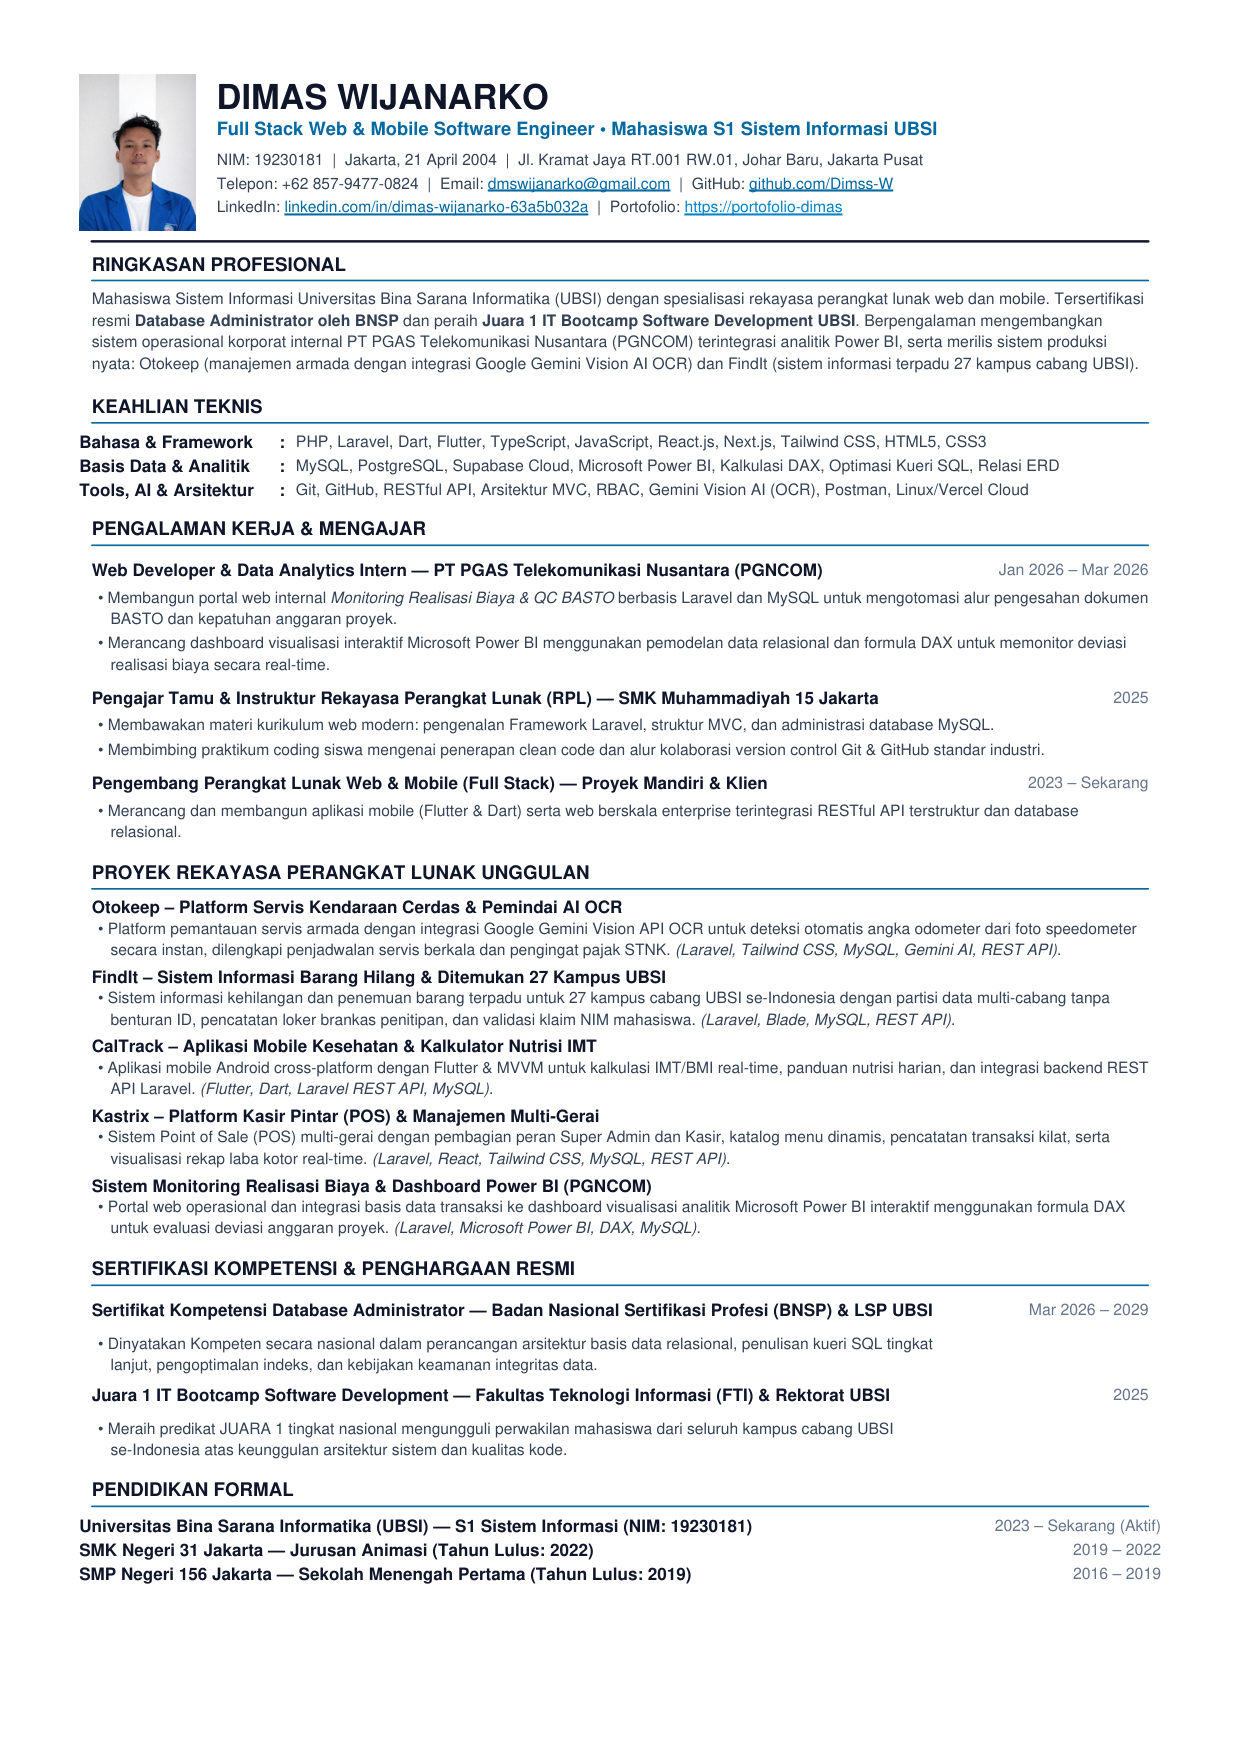
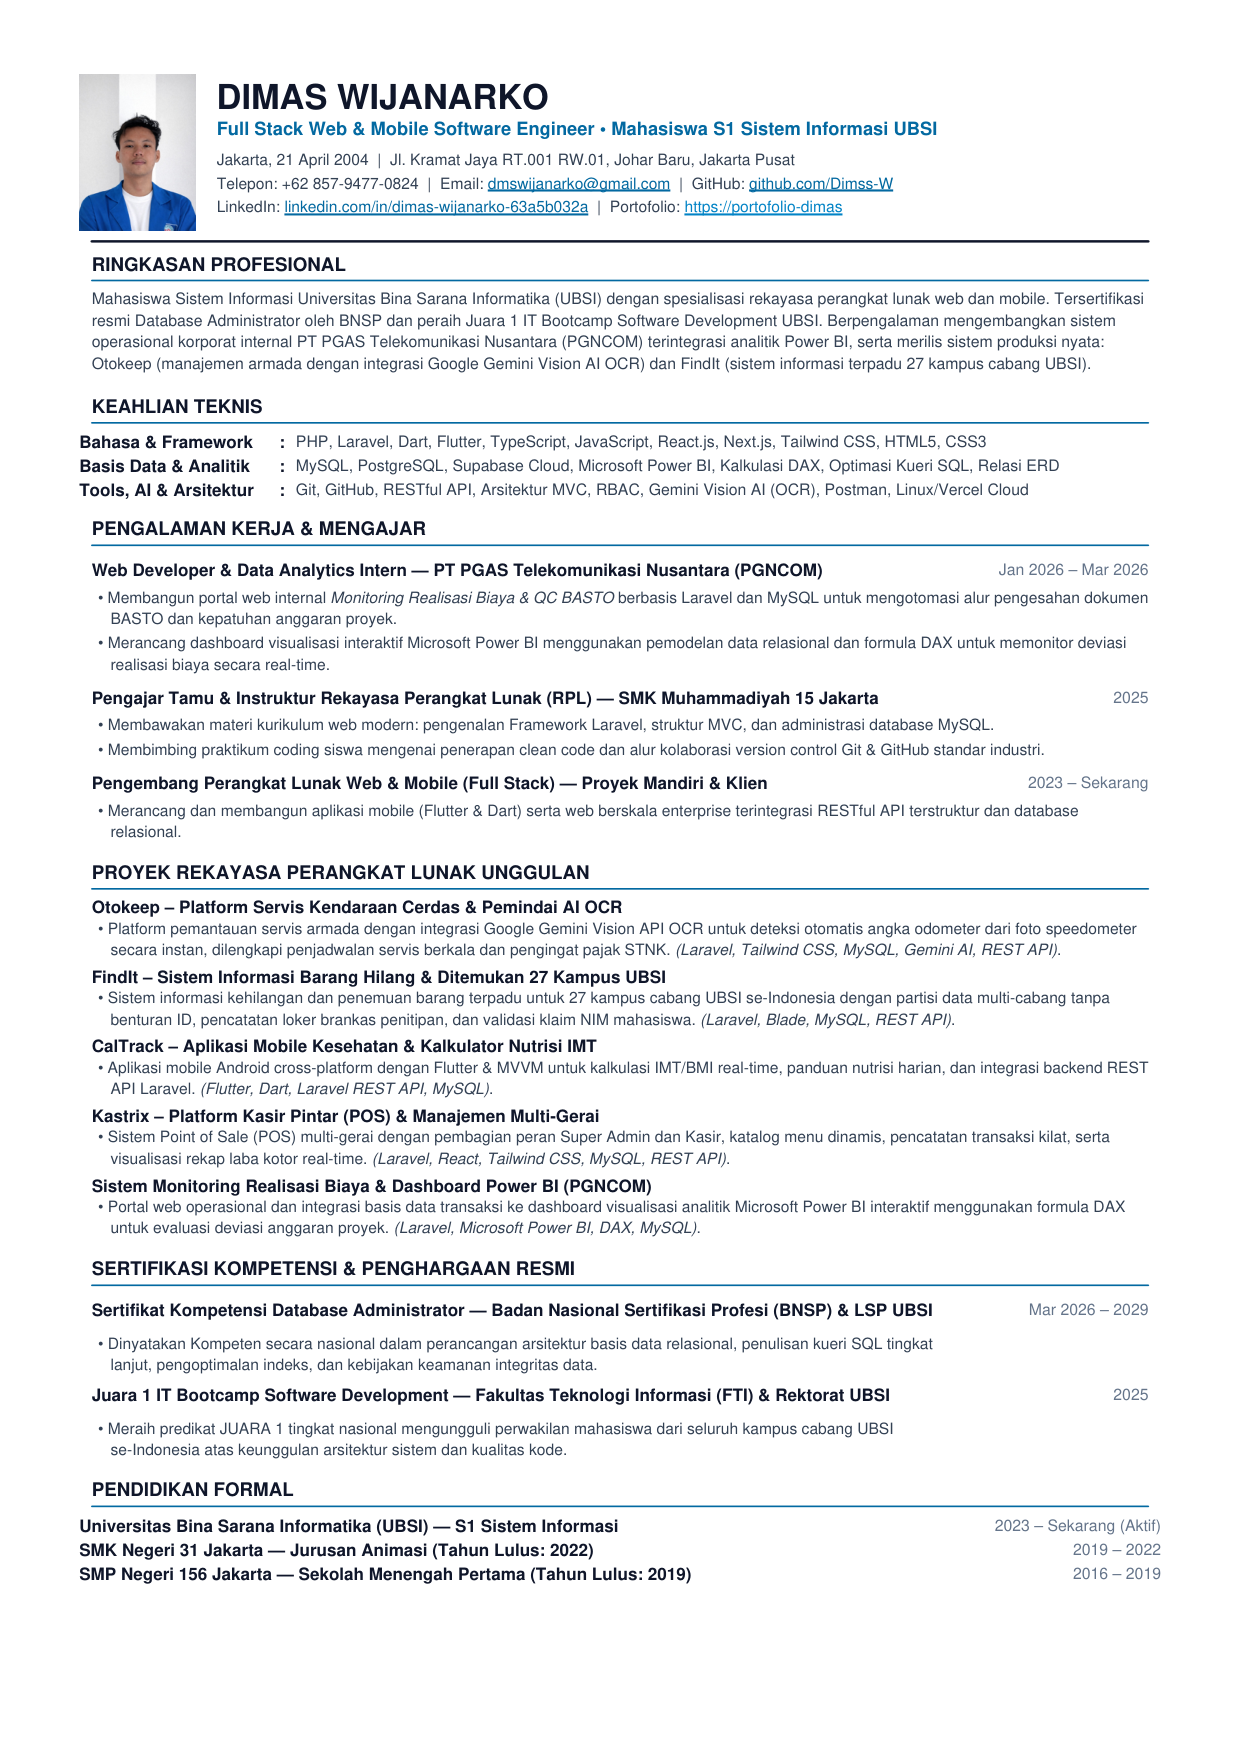
refactor(cv): remove NIM and unbold professional summary

Changed region(s): [[0.0612, 0.1539, 0.9186, 0.2155], [0.5205, 0.862, 0.6124, 0.8928], [0.4287, 0.0616, 0.4593, 0.0924]]

diff --git a/generate_1page_cv.py b/generate_1page_cv.py
@@ -149,7 +149,7 @@ def build_clean_executive_cv(output_path):
         Paragraph("DIMAS WIJANARKO", name_style),
         Paragraph("Full Stack Web & Mobile Software Engineer • Mahasiswa S1 Sistem Informasi UBSI", title_style),
         Paragraph(
-            "NIM: 19230181 &nbsp;|&nbsp; Jakarta, 21 April 2004 &nbsp;|&nbsp; Jl. Kramat Jaya RT.001 RW.01, Johar Baru, Jakarta Pusat",
+            "Jakarta, 21 April 2004 &nbsp;|&nbsp; Jl. Kramat Jaya RT.001 RW.01, Johar Baru, Jakarta Pusat",
             contact_style
         ),
         Spacer(1, 1),
@@ -190,7 +190,7 @@ def build_clean_executive_cv(output_path):
 
     summary_text = (
         "Mahasiswa Sistem Informasi Universitas Bina Sarana Informatika (UBSI) dengan spesialisasi rekayasa perangkat lunak web dan mobile. "
-        "Tersertifikasi resmi <b>Database Administrator oleh BNSP</b> dan peraih <b>Juara 1 IT Bootcamp Software Development UBSI</b>. "
+        "Tersertifikasi resmi Database Administrator oleh BNSP dan peraih Juara 1 IT Bootcamp Software Development UBSI. "
         "Berpengalaman mengembangkan sistem operasional korporat internal PT PGAS Telekomunikasi Nusantara (PGNCOM) terintegrasi analitik Power BI, "
         "serta merilis sistem produksi nyata: Otokeep (manajemen armada dengan integrasi Google Gemini Vision AI OCR) dan FindIt (sistem informasi terpadu 27 kampus cabang UBSI)."
     )
@@ -341,7 +341,7 @@ def build_clean_executive_cv(output_path):
 
     edu_table_data = [
         [
-            Paragraph("<b>Universitas Bina Sarana Informatika (UBSI)</b> — S1 Sistem Informasi (NIM: 19230181)", item_title_style),
+            Paragraph("<b>Universitas Bina Sarana Informatika (UBSI)</b> — S1 Sistem Informasi", item_title_style),
             Paragraph("2023 – Sekarang (Aktif)", item_date_style),
         ],
         [
